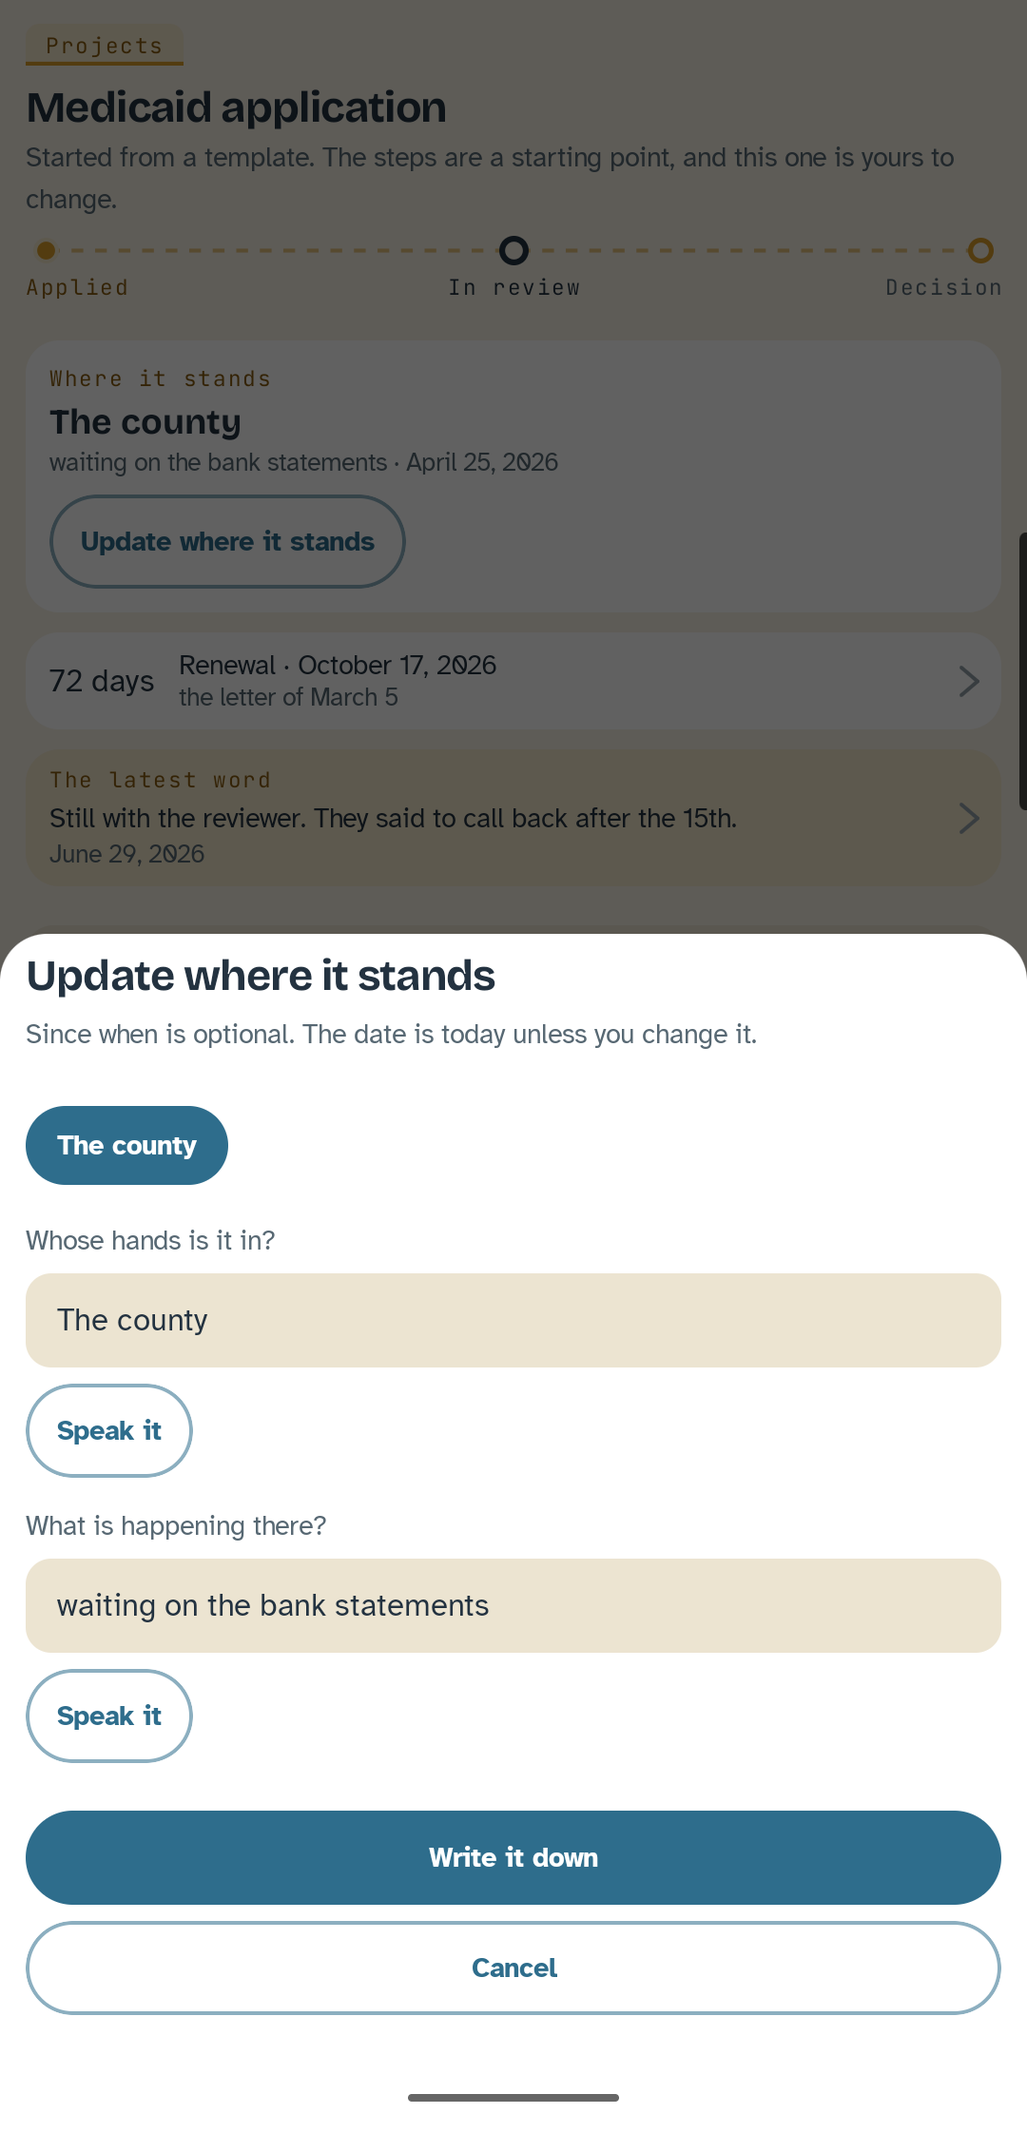
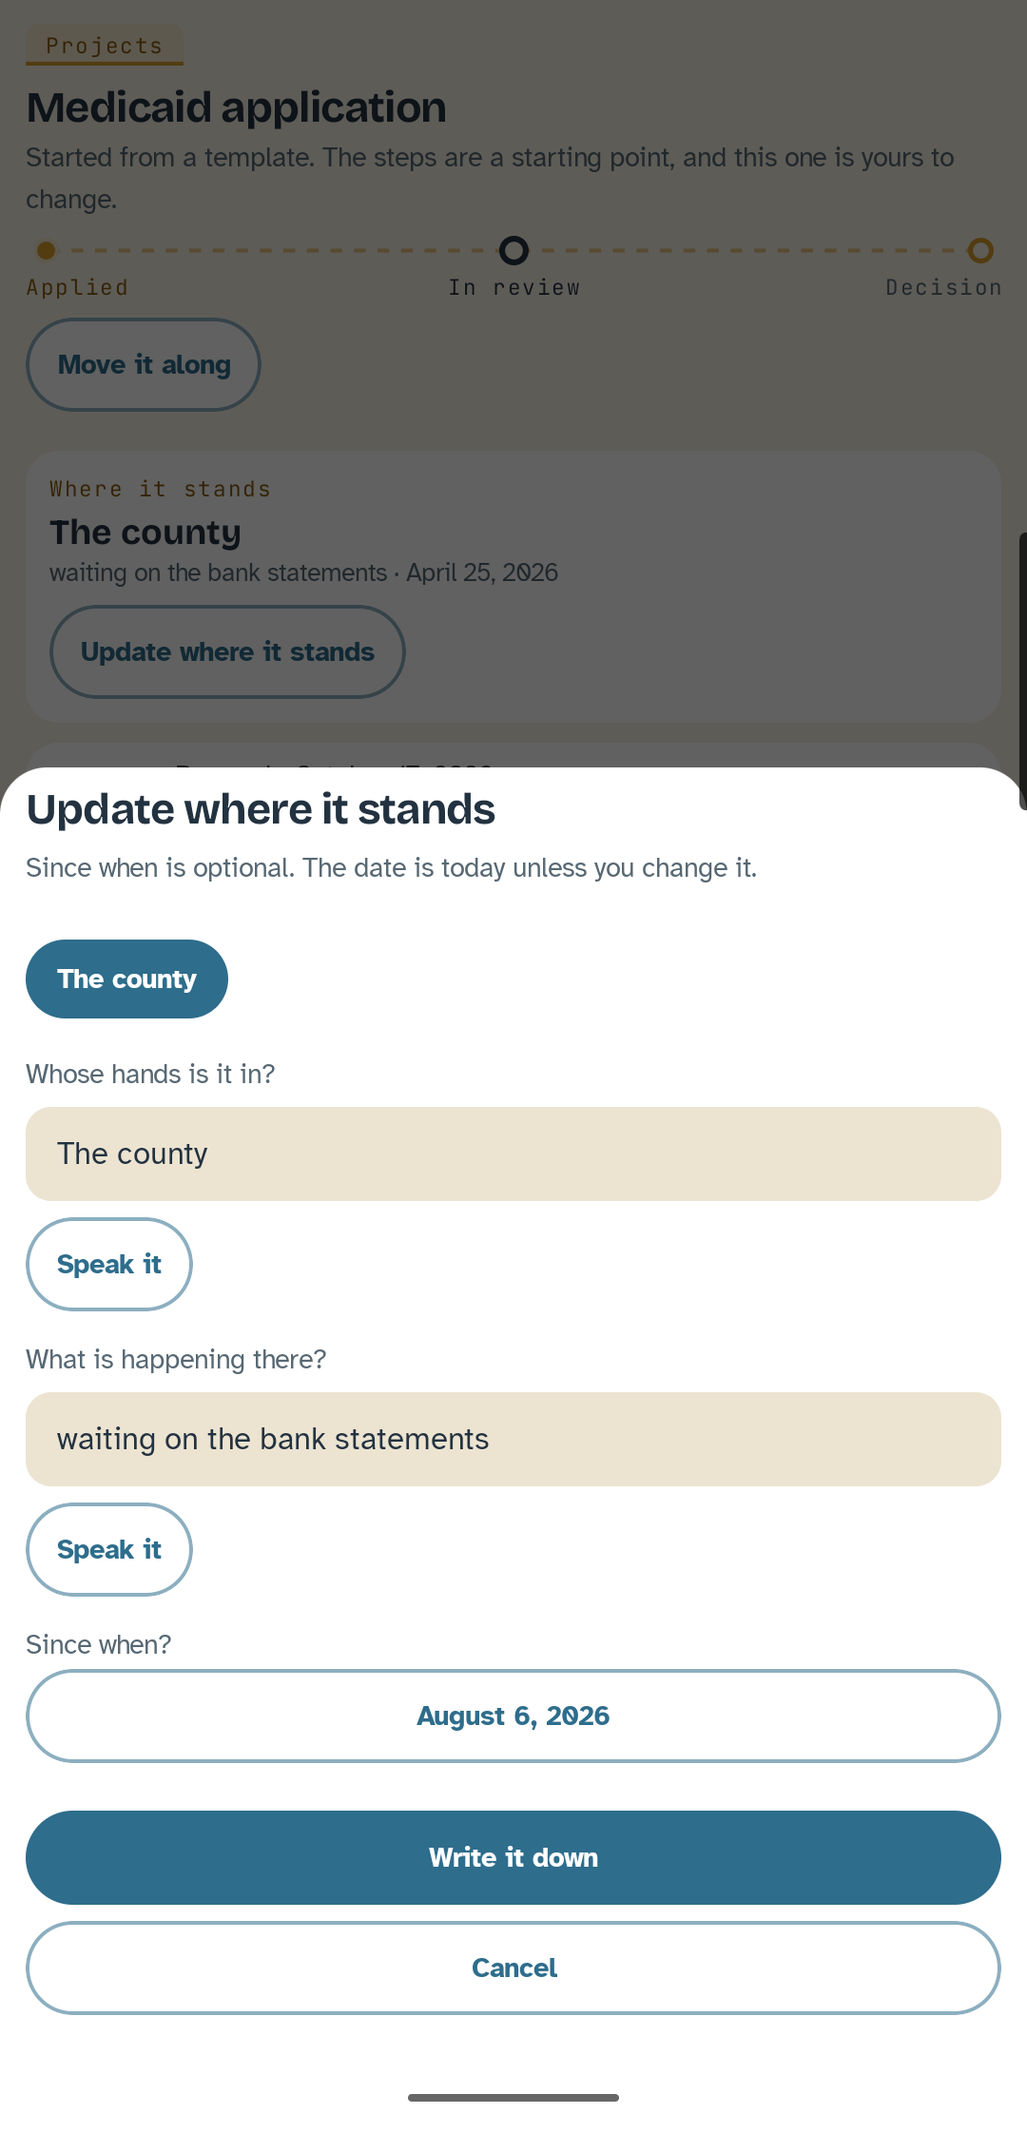
The standing sheet promised a date it did not have
project.standing.lead has always read "Since when is optional. The date
is today unless you change it." The sheet had no date control at all, and
the shell stamped LocalDate.now() over whatever the person meant. That is
the same defect the stage sheet carried until ac526b6, on its sibling
sheet of the same screen, and it was found by opening the sheet during
the #281 gate sweep rather than by reading it.

addProjectStanding already took an Edtf.Date. Only the sheet and the
shell dropped it.

The date defaults to today, so somebody recording this five minutes after
the call still spends no taps on it. It does not inherit the previous
standing's date: that is when the project last changed hands, which is
the one answer almost certainly wrong for the change being recorded now.

It is labeled "Since when?" like the two fields above it. Unlabeled it
was a bare button showing a date directly above two more full width
buttons, which dresses a value as an action.

savingStanding is a named StandingWrite rather than a Triple with a date
bolted on. Two of its four fields are adjacent free text the person
typed, which is the shape that gets passed the wrong way round with
nothing to catch it.

Proved on the phone: picked August 3 while today was August 6, saved, and
the standing card read August 3. StandingSheetTest is 4 tests and the
date assertion was proved by breaking it, removing the control, watching
that one test fail, and restoring from a scratchpad copy rather than with
[…]

Changed region(s): [[0.0, 0.156, 1.0, 0.8426], [0.4889, 0.2497, 0.5194, 0.2809]]

diff --git a/android/app/src/androidTest/kotlin/com/kamsiob/healthtrail/ui/StandingSheetTest.kt b/android/app/src/androidTest/kotlin/com/kamsiob/healthtrail/ui/StandingSheetTest.kt
@@ -1,0 +1,142 @@
+package com.kamsiob.healthtrail.ui
+
+import androidx.compose.runtime.CompositionLocalProvider
+import androidx.compose.ui.test.assertIsDisplayed
+import androidx.compose.ui.test.assertIsNotEnabled
+import androidx.compose.ui.test.junit4.createComposeRule
+import androidx.compose.ui.test.onNodeWithTag
+import androidx.compose.ui.test.onNodeWithText
+import androidx.compose.ui.test.performClick
+import androidx.compose.ui.test.performTextInput
+import androidx.test.ext.junit.runners.AndroidJUnit4
+import androidx.test.platform.app.InstrumentationRegistry
+import com.kamsiob.healthtrail.data.Repository
+import com.kamsiob.healthtrail.i18n.LocalStrings
+import com.kamsiob.healthtrail.i18n.Strings
+import com.kamsiob.healthtrail.time.Edtf
+import com.kamsiob.healthtrail.time.EventDateText
+import com.kamsiob.healthtrail.ui.screens.StandingSheet
+import com.kamsiob.healthtrail.ui.screens.StandingTags
+import com.kamsiob.healthtrail.ui.theme.HealthTrailTheme
+import java.time.LocalDate
+import java.util.Locale
+import org.junit.Assert.assertEquals
+import org.junit.Assert.assertNotNull
+import org.junit.Rule
+import org.junit.Test
+import org.junit.runner.RunWith
+
+/**
+ * Recording where a project stands. `DESIGN.md` 20.5 screen 8, issue #281.
+ *
+ * **The sheet said "the date is today unless you change it" and nothing on it
+ * changed the date.** That is the same defect the stage sheet carried until
+ * `ac526b6`, on the sibling sheet of the same screen, and it was found by
+ * opening the sheet rather than by reading it. What is held here is that the
+ * date the sheet shows is the date that reaches the caller.
+ */
+@RunWith(AndroidJUnit4::class)
+class StandingSheetTest {
+
+    @get:Rule
+    val compose = createComposeRule()
+
+    private val context get() = InstrumentationRegistry.getInstrumentation().targetContext
+    private val strings by lazy { Strings.load(context, Locale.ENGLISH) }
+
+    private var savedHolder: String? = null
+    private var savedActivity: String? = null
+    private var savedSince: Edtf.Date? = null
+
+    private val previous = Repository.ProjectStanding(
+        id = "st1",
+        holderLabel = "The county",
+        personId = null,
+        organizationId = null,
+        activity = "reviewing it",
+        sinceEdtf = "2026-03",
+        sinceStart = 1L,
+        entryId = null,
+        note = null,
+    )
+
+    private fun show(
+        people: List<String> = listOf("The county", "The insurer"),
+        previous: Repository.ProjectStanding? = null,
+    ) {
+        compose.setContent {
+            CompositionLocalProvider(LocalStrings provides strings) {
+                HealthTrailTheme {
+                    StandingSheet(
+                        people = people,
+                        previous = previous,
+                        onSave = { holder, activity, since ->
+                            savedHolder = holder
+                            savedActivity = activity
+                            savedSince = since
+                        },
+                        onDismiss = {},
+                    )
+                }
+            }
+        }
+    }
+
+    /**
+     * The control the lead has always promised exists, and it opens on today.
+     *
+     * Today by default is the whole point: somebody recording this five minutes
+     * after the call should spend no taps on the date at all.
+     */
+    @Test
+    fun theSheetCarriesADateAndItOpensOnToday() {
+        show()
+        val today = EventDateText.render(strings, Edtf.day(LocalDate.now()))
+        compose.onNodeWithTag(StandingTags.WHEN).assertIsDisplayed()
+        compose.onNodeWithText(today).assertIsDisplayed()
+    }
+
+    /** Whatever the sheet shows is what the caller is given, not the clock. */
+    @Test
+    fun theDateOnTheSheetIsTheDateThatIsSaved() {
+        show()
+        compose.onNodeWithTag(StandingTags.WHO).performTextInput("The review panel")
+        compose.onNodeWithTag(StandingTags.SAVE).performClick()
+        assertEquals("The review panel", savedHolder)
+        assertNotNull("the date never reached the caller", savedSince)
+        assertEquals(Edtf.day(LocalDate.now()), savedSince)
+    }
+
+    /**
+     * Partial is a finished state, rule 13.
+     *
+     * Somebody who knows only that it is with the county can write that and
+     * nothing else. The one thing the sheet cannot save is nothing at all.
+     */
+    @Test
+    fun aHolderAloneIsEnoughToSave() {
+        show()
+        compose.onNodeWithTag(StandingTags.SAVE).assertIsNotEnabled()
+        compose.onNodeWithTag(StandingTags.WHO).performTextInput("The county")
+        compose.onNodeWithTag(StandingTags.SAVE).performClick()
+        assertEquals("The county", savedHolder)
+        assertEquals("", savedActivity)
+    }
+
+    /**
+     * The sheet opens on where it already stood, and the date still opens on
+     * today.
+     *
+     * The previous standing's own date is when the project last changed hands,
+     * which is the one answer that is almost certainly wrong for the change
+     * being recorded now.
+     */
+    @Test
+    fun theDateDoesNotInheritTheLastOneEvenThoughTheWordsDo() {
+        show(previous = previous)
+        compose.onNodeWithTag(StandingTags.SAVE).performClick()
+        assertEquals("The county", savedHolder)
+        assertEquals("reviewing it", savedActivity)
+        assertEquals(Edtf.day(LocalDate.now()), savedSince)
+    }
+}

diff --git a/android/app/src/main/kotlin/com/kamsiob/healthtrail/ui/screens/StandingSheet.kt b/android/app/src/main/kotlin/com/kamsiob/healthtrail/ui/screens/StandingSheet.kt
@@ -24,19 +24,25 @@ import androidx.compose.ui.platform.testTag
 import androidx.compose.ui.text.input.ImeAction
 import com.kamsiob.healthtrail.data.Repository
 import com.kamsiob.healthtrail.i18n.LocalStrings
+import com.kamsiob.healthtrail.time.Edtf
+import com.kamsiob.healthtrail.time.EventDateText
 import com.kamsiob.healthtrail.ui.components.ChoiceChip
 import com.kamsiob.healthtrail.ui.components.cappedChips
+import com.kamsiob.healthtrail.ui.components.DatePickerSheet
 import com.kamsiob.healthtrail.ui.components.DictatableField
 import com.kamsiob.healthtrail.ui.components.FilledButton
+import com.kamsiob.healthtrail.ui.components.QuietButton
 import com.kamsiob.healthtrail.ui.components.TextAction
 import com.kamsiob.healthtrail.ui.theme.HealthTrail
 import com.kamsiob.healthtrail.ui.theme.Radius
 import com.kamsiob.healthtrail.ui.theme.Space
+import java.time.LocalDate
 
 object StandingTags {
     const val SHEET = "standing-sheet"
     const val WHO = "standing-who"
     const val WHAT = "standing-what"
+    const val WHEN = "standing-when"
     const val SAVE = "standing-save"
 }
 
@@ -51,10 +57,13 @@ object StandingTags {
  * besides.** The chips are what somebody already wrote down; the field is for
  * the office nobody has named yet, which is most of them at the start.
  *
- * **Since when defaults to today and is not asked for.** A person recording
- * this five minutes after the call knows when it happened, and asking them to
- * confirm it is a question with one answer. It is editable afterward from the
- * entry itself, per rule 17.
+ * **Since when defaults to today and can be changed.** A person recording this
+ * five minutes after the call usually wants today, so today is one tap. The
+ * sheet's own copy said "the date is today unless you change it" and for a week
+ * nothing on it changed the date, which is the same defect the stage sheet
+ * carried until `ac526b6`. Somebody writing down on Thursday that the county
+ * picked it up on Monday needs this, and rule 17 says a date is never falsely
+ * precise and always the person's.
  *
  * **Nothing here is framed as a fight**, section 22. The holder is named by
  * role as the person wrote it down, and what is happening is stated as fact.
@@ -64,7 +73,7 @@ object StandingTags {
 fun StandingSheet(
     /** Names already on this project, offered as chips. */
     people: List<String>,
-    onSave: (holder: String, activity: String) -> Unit,
+    onSave: (holder: String, activity: String, since: Edtf.Date) -> Unit,
     onDismiss: () -> Unit,
     /** Where it stood before, so the sheet opens on what is already true. */
     previous: Repository.ProjectStanding? = null,
@@ -75,6 +84,11 @@ fun StandingSheet(
 
     var holder by remember(previous?.id) { mutableStateOf(previous?.holderLabel.orEmpty()) }
     var activity by remember(previous?.id) { mutableStateOf(previous?.activity.orEmpty()) }
+    // **Today, not the previous standing's date.** This records where the
+    // project stands now; opening on the date it last changed hands would
+    // pre-fill the one answer that is almost certainly wrong.
+    var since by remember(previous?.id) { mutableStateOf(Edtf.day(LocalDate.now())) }
+    var picking by remember { mutableStateOf(false) }
 
     ModalBottomSheet(
         onDismissRequest = onDismiss,
@@ -155,6 +169,28 @@ fun StandingSheet(
                 fieldTestTag = StandingTags.WHAT,
             )
 
+            Spacer(Modifier.height(Space.m))
+
+            // **What the lead has promised all along.** Today by default, so
+            // the common case is still no taps at all, and the whole control
+            // is one line rather than a stage of its own.
+            //
+            // **Labeled like the two fields above it**, because unlabeled it
+            // was a bare button showing a date in a column of labeled fields,
+            // directly above two more full width buttons. A value is not an
+            // action and must not be dressed as one.
+            Text(
+                text = strings["project.standing.when"],
+                style = HealthTrail.type.bodyM,
+                color = colors.ink2,
+            )
+            Spacer(Modifier.height(Space.xs))
+            QuietButton(
+                label = EventDateText.render(strings, since),
+                onClick = { picking = true },
+                modifier = Modifier.fillMaxWidth().testTag(StandingTags.WHEN),
+            )
+
             Spacer(Modifier.height(Space.l))
 
             FilledButton(
@@ -163,7 +199,7 @@ fun StandingSheet(
                 // only that it is with the county can say that and nothing
                 // else. The one thing this cannot save is nothing at all.
                 enabled = holder.isNotBlank(),
-                onClick = { onSave(holder.trim(), activity.trim()) },
+                onClick = { onSave(holder.trim(), activity.trim(), since) },
                 modifier = Modifier.fillMaxWidth().testTag(StandingTags.SAVE),
             )
 
@@ -175,5 +211,14 @@ fun StandingSheet(
                 modifier = Modifier.fillMaxWidth(),
             )
         }
+    }
+
+    if (picking) {
+        DatePickerSheet(
+            initial = since,
+            onPick = { since = it; picking = false },
+            onDismiss = { picking = false },
+            titleKey = "date.pick.title",
+        )
     }
 }

diff --git a/android/app/src/main/kotlin/com/kamsiob/healthtrail/ui/NotebookShell.kt b/android/app/src/main/kotlin/com/kamsiob/healthtrail/ui/NotebookShell.kt
@@ -319,9 +319,11 @@ fun NotebookShell(
     var projectEntries by remember {
         mutableStateOf<List<Repository.TrailEntry>>(emptyList())
     }
-    var savingStanding by remember {
-        mutableStateOf<Triple<String, String, String>?>(null)
-    }
+    // A named type rather than a fourth slot on a Triple. Three anonymous
+    // strings and a date is exactly the shape where the holder and the activity
+    // get passed the wrong way round, and neither the compiler nor a screenshot
+    // would say so.
+    var savingStanding by remember { mutableStateOf<StandingWrite?>(null) }
     var projectCards by remember {
         mutableStateOf<Map<String, Repository.ProjectCard>>(emptyMap())
     }
@@ -1563,25 +1565,26 @@ fun NotebookShell(
                 // have to have filled in first.
                 people = projectStandingHistory.map { it.holderLabel }.distinct(),
                 previous = projectStanding,
-                onSave = { holder, activity ->
-                    savingStanding = Triple(project.id, holder, activity)
+                onSave = { holder, activity, since ->
+                    savingStanding = StandingWrite(project.id, holder, activity, since)
                     updatingStanding = null
                 },
                 onDismiss = { updatingStanding = null },
             )
         }
 
-        savingStanding?.let { (projectId, holder, activity) ->
-            LaunchedEffect(projectId, holder, activity) {
+        savingStanding?.let { write ->
+            LaunchedEffect(write) {
                 repository.addProjectStanding(
-                    projectId = projectId,
-                    holderLabel = holder,
-                    // **Today, and not asked for.** A person recording this
-                    // five minutes after the call knows when it happened, and
-                    // asking them to confirm it is a question with one answer.
-                    // It stays editable from the entry itself, rule 17.
-                    since = Edtf.day(java.time.LocalDate.now()),
-                    activity = activity.ifBlank { null },
+                    projectId = write.projectId,
+                    holderLabel = write.holder,
+                    // **What the sheet says, not what the clock says.** The
+                    // lead has always read "the date is today unless you change
+                    // it" and this line used to stamp today regardless, so the
+                    // one sentence on the sheet that made a promise was the one
+                    // the code broke. Rule 17.
+                    since = write.since,
+                    activity = write.activity.ifBlank { null },
                 )
                 savingStanding = null
                 revision += 1
@@ -3917,4 +3920,19 @@ private data class Quadruple<A, B, C, D>(
     val second: B,
     val third: C,
     val fourth: D,
+)
+
+/**
+ * One pending write of where a project stands, held between the sheet and the
+ * effect that saves it.
+ *
+ * **Named rather than a Triple with a date bolted on.** Two of these fields are
+ * free text the person typed and they are adjacent, which is the shape that
+ * gets passed the wrong way round with nothing to catch it.
+ */
+private data class StandingWrite(
+    val projectId: String,
+    val holder: String,
+    val activity: String,
+    val since: com.kamsiob.healthtrail.time.Edtf.Date,
 )

diff --git a/HANDOFF.md b/HANDOFF.md
@@ -15,7 +15,7 @@ Everything below is verified rather than asserted, as of 2026-08-06:
 - The working tree is clean and everything is on `origin/main`. **Check it rather than trusting this line**: `git status --porcelain` and `git log --oneline -5`.
 - **17 repository checks pass** (`python3 tools/checks/run_all.py`), and `tools/verify.sh` is the runner that reaches everything including the test sources.
 - **Continuous integration is green on `main`** for the last three commits, checked at `ac526b6`. **Check it after every push**, `gh run list --branch main --limit 3`, because the tree being clean and the checks passing tell you nothing about it.
-- **413 instrumented tests pass**, last full run 2026-08-06 after #314 closed. Up from 404.
+- **417 instrumented tests pass**, last full run 2026-08-06 after the standing sheet gained its date. Up from 404 at the start of this run.
 - **Close the notification shade before running the suite.** An open shade holds window focus and fails all six `BackJourneyTest` tests with `RootViewWithoutFocusException`, which reads exactly like a back-stack defect and is not one. `adb shell cmd statusbar collapse` then `input keyevent KEYCODE_HOME`. **#316** asks for this as a refusing preflight rather than a habit.
 - **Clear the per-app locale before running the suite**: `adb shell cmd locale set-app-locales com.kamsiob.healthtrail --user 0 --locales ""`. #306 fails without it and the failure looks like a product defect. Section 7.
 - **The phone was unplugged on 2026-08-06 at the owner's request, at a clean point.** It was left installed, font scale 1.0 and no per-app locale, both checked against the values they had at the start rather than assumed. The notebook on it is whatever the last `tools/seed.sh` left. **Confirm it is attached before planning any device work**: `adb devices`, then `tools/seed.sh`.
@@ -220,6 +220,20 @@ The sheet carries the date now, defaulting to today so the common case stays one
 **388 instrumented tests pass**, up from 373. Seen at both themes, at font scale 2.0 and in Arabic: `project-road-light`, `project-road-dark`, `project-road-2x-dark`, `project-road-rtl-dark`, `stage-edit-light`.
 
 **373 instrumented tests pass**, up from 365. Seen at both themes, at font scale 2.0 and in Arabic: `project-steps-light`, `project-steps-dark`, `project-steps-2x-dark`, `project-steps-rtl-dark`, `step-edit-light`.
+
+### 2.37 The standing sheet said the date was today unless you changed it, and nothing changed it
+
+**The same defect the stage sheet carried until `ac526b6`, on its sibling sheet on the same screen**, found by opening it during the #281 gate sweep rather than by reading it. `project.standing.lead` has always read "Since when is optional. The date is today unless you change it", and the sheet had no date control at all: `addProjectStanding` already took an `Edtf.Date` and the shell stamped `LocalDate.now()` over whatever the person meant.
+
+- **The sheet carries the date now**, defaulting to today so the common case is still no taps, and it is **labeled "Since when?"** like the two fields above it. Unlabeled it was a bare button showing a date directly above two more full width buttons, which dresses a value as an action.
+- **The date does not inherit the previous standing's.** That is when the project last changed hands, which is the one answer almost certainly wrong for the change being recorded now.
+- **`savingStanding` is a named `StandingWrite` rather than a Triple with a date bolted on.** Two of its four fields are adjacent free text the person typed, which is the shape that gets passed the wrong way round with nothing to catch it.
+- Proved on the phone: picked August 3 while today was August 6, saved, and the standing card read August 3.
+- **`StandingSheetTest` is 4 tests and the date assertion was proved by breaking it**, removing the control, watching that one test fail, and restoring from a scratchpad copy rather than with git, per section 7.
+
+**417 instrumented tests pass**, up from 413. Seen at both themes, at font scale 2.0 and in Arabic: `project-standing-sheet-light`, `project-standing-sheet-dark`, `project-standing-sheet-2x-dark`, `project-standing-sheet-rtl-dark`.
+
+**The log a call sheet was checked for the same shape and does not have it**: it claims no date and its save is enabled by the note alone, so rule 13's partial save holds. **It still has no date of its own**, which matters for a call being written up the next morning, and that is left as is rather than widened into here.
 
 ### 2.36 The last two things the superseded project screen could do have come back
 
